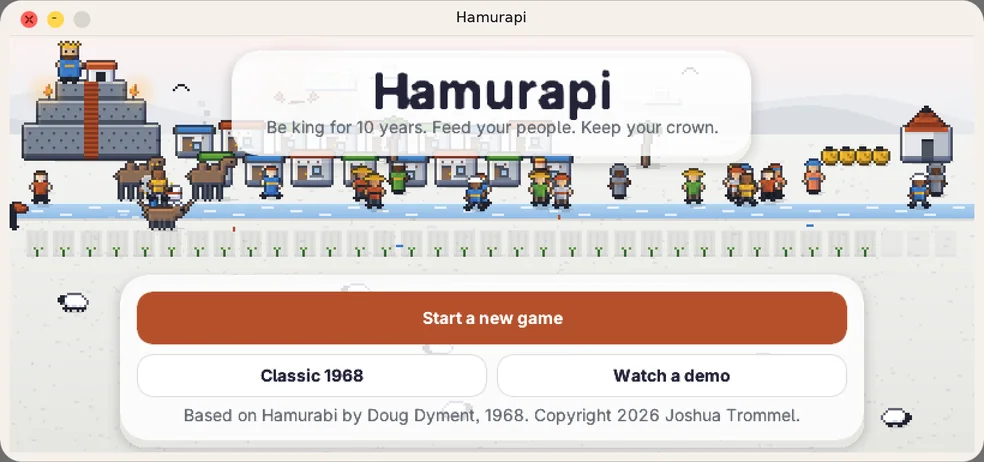
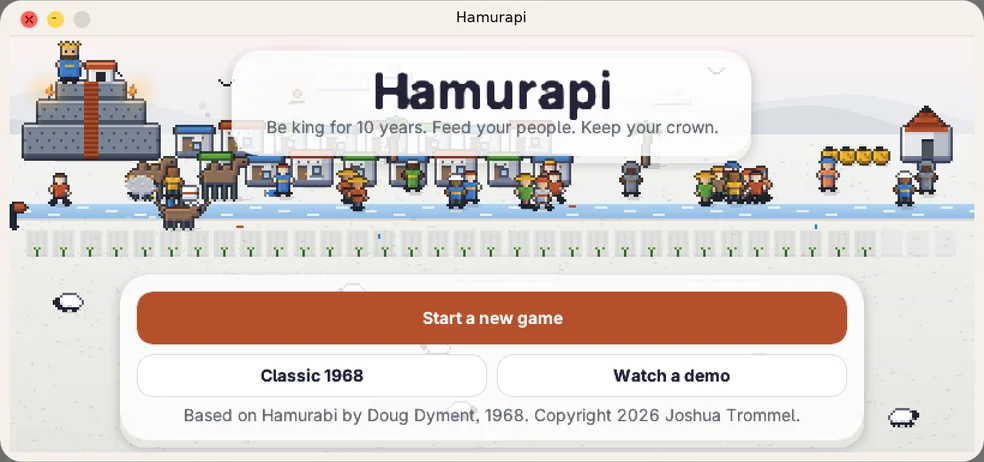
4.29.0: Cmd+N is a new note, on both kernels (#686)
One new key code, JT_KEY_NEW (316), from the chord tables on i386 and the Pi. Notes takes it from the list or the editor (the open note saved first). Checks: clipboard-check.py, arm64-clipboard-check.py. Landing shots retaken (jtsys.h is shared); three changed only in live data and animation frames.

Claude-Session: https://claude.ai/code/session_01HRdSytyrcTNJkvwQ7x5Mw8

diff --git a/landing/index.html b/landing/index.html
@@ -675,7 +675,7 @@ p,li,.sub{text-wrap:pretty}
 <section class="facts reveal" aria-label="Joshua Tree by the numbers">
   <div class="facts-row two">
     <div class="fact"><strong><span data-fact="apps">38</span></strong><span class="label">Apps</span></div>
-    <div class="fact"><strong>v<span data-fact="version">4.28.1</span></strong><span class="label">Version</span></div>
+    <div class="fact"><strong>v<span data-fact="version">4.29.0</span></strong><span class="label">Version</span></div>
   </div>
   <div class="boot-cta">
     <a class="boot-btn" href="https://github.com/nulljosh/joshuatree/releases/latest/download/joshuatree.iso">Download PC ISO</a>
@@ -965,7 +965,7 @@ p,li,.sub{text-wrap:pretty}
     </div>
   </nav>
   <div class="foot-bar">
-    <p class="foot-meta">Joshua Tree v<span data-fact="version">4.28.1</span> &middot; Apache License 2.0 &middot; &copy; 2026 Joshua Trommel &middot; Made with <span class="heart">&hearts;</span> in Vancouver, BC</p>
+    <p class="foot-meta">Joshua Tree v<span data-fact="version">4.29.0</span> &middot; Apache License 2.0 &middot; &copy; 2026 Joshua Trommel &middot; Made with <span class="heart">&hearts;</span> in Vancouver, BC</p>
   </div>
   <div class="foot-landscape" aria-hidden="true"><canvas></canvas></div>
 </footer>

diff --git a/tools/checks/arm64-clipboard-check.py b/tools/checks/arm64-clipboard-check.py
@@ -4,6 +4,7 @@
 The Cmd key is the keyboard's Super/Windows key (QMP qcode meta_l). One boot, every key through the virtio keyboard:
   1. Spotlight opens Notes, `n` starts a note, "pasteok" is typed, Cmd+A selects it (Notes says edsel=0,7), Cmd+C copies
      it (the kernel says CLIPCOPY:7: user/notes.c reached the one kernel buffer through JT_SYS_CLIPBOARD, 399).
+     Cmd+N then starts a second note (a second `notes: new=`), the first saved on the way.
   2. Spotlight opens the Terminal; Cmd+V puts the text on the input line (CLIPPASTE:7) and Enter runs it, which the
      shell can only answer with "zsh: command not found: pasteok", so the text itself crossed from Notes to the Terminal.
   3. Cmd+X on a typed line cuts it (CLIPCOPY:3) and Cmd+V puts it back (CLIPPASTE:3): the Terminal's own line works.
@@ -85,6 +86,11 @@ try:
     check("Cmd+A selects the text in Notes", wait_for("edsel=0,7", 5))
     key("meta_l", "c")
     check("Cmd+C reaches the kernel clipboard (CLIPCOPY:7)", wait_for("CLIPCOPY:7", 5))
+    news = uart().count("notes: new=")
+    key("meta_l", "n")
+    end = time.time() + 5
+    while time.time() < end and uart().count("notes: new=") <= news: time.sleep(.1)
+    check("Cmd+N in the editor starts a second note", uart().count("notes: new=") > news)
     mark = len(uart())
     spot("terminal")
     check("Terminal opened", wait_for("terminal open", 10, mark) or wait_for("focus terminal", 2, mark))

diff --git a/user/notes.c b/user/notes.c
@@ -602,6 +602,7 @@ void _start(int argc, char **argv) {
             ev.a = key;
             if (ev.a == JT_KEY_ESC && ed_has_sel()) { esel = -1; ed_draw(); }
             else if (ev.a == JT_KEY_ESC) { edit_close(); draw(); }
+            else if (ev.a == JT_KEY_NEW) { edit_close(); new_note(); if (editing) ed_draw(); else draw(); }   /* Cmd+N: this note saved, a fresh one open */
             else { ed_key(ev.a); if (edirty) edit_t = now_ticks(); ed_draw(); }
             flags = JT_POLL_PRESENT;
             continue;
@@ -618,7 +619,7 @@ void _start(int argc, char **argv) {
             if (k == JT_KEY_ESC && !armed) break;
             else if (k == JT_KEY_ESC) { say("notes: delete cancelled", -1); }
             else if (k == '\t') focus = !focus;
-            else if (k == 'n') { new_note(); if (editing) { ed_draw(); flags = JT_POLL_PRESENT; continue; } }
+            else if (k == 'n' || k == JT_KEY_NEW) { new_note(); if (editing) { ed_draw(); flags = JT_POLL_PRESENT; continue; } }
             else if (k == 'f') new_folder();
             else if (k == 'd') {
                 if (armed) delete_note();

diff --git a/arch/arm64/boot.c b/arch/arm64/boot.c
@@ -32,7 +32,7 @@ static void app_key(unsigned code) {   /* a key down for the app in front, as th
                                              {105, 261}, {106, 262}, {102, 305}, {107, 306}, {111, 307} };
     int k = 0;
     for (unsigned i = 0; i < sizeof map / sizeof map[0]; i++) if (map[i][0] == code) k = map[i][1];
-    if (!k && (ctrl_held || gui_held)) k = code == 46 ? 302 : code == 45 ? 303 : code == 47 ? 304 : code == 31 ? 308 : code == 30 ? 315 : 0;   /* Ctrl or Cmd with C X V S A */
+    if (!k && (ctrl_held || gui_held)) k = code == 46 ? 302 : code == 45 ? 303 : code == 47 ? 304 : code == 31 ? 308 : code == 30 ? 315 : code == 49 ? 316 : 0;   /* Ctrl or Cmd with C X V S A N */
     else if (!k) k = ask_char(code);
     if (k) app_push(1, k, 0);
 }

diff --git a/kernel/multiwin.c b/kernel/multiwin.c
@@ -390,6 +390,7 @@ int gui_multiwin_key_nonblock(void){
     if (sc & 0x80) return -1; /* key release */
     if (sc == 0x3C) return KEY_F2;
     if (kbd_ctrl && (sc & 0x7F) == 0x1F) return KEY_SAVE;
+    if (kbd_ctrl && (sc & 0x7F) == 0x31) return KEY_NEW;
     if (kbd_ctrl) { int k = sc & 0x7F; if (k == 0x2E) return KEY_COPY; if (k == 0x2D) return KEY_CUT; if (k == 0x2F) return KEY_PASTE; if (sel_ok && k == 0x1E) return KEY_SELALL; if (sel_ok && gui_windows[gui_window_count - 1].icon == GUI_APP_PANES && key_ctl_code(k)) return key_ctl_code(k); } /* clipboard and select-all keys reach ring-3 windows too */
     char c = kbd_map(sc);
     if (c == '\n') return KEY_ENTER;

diff --git a/tools/checks/clipboard-check.py b/tools/checks/clipboard-check.py
@@ -60,6 +60,15 @@ try:
     else:
         print('Notes    : typed a line, Ctrl+C copied it, Ctrl+V pasted it back (serial-verified)')
 
+    # 1b: Ctrl+N in the editor saves this note and opens a fresh one
+    n = vm.count('notes: new=')
+    vm.key('ctrl-n')
+    if not vm.wait('notes: new=', 10, n + 1):
+        fails.append('Notes Ctrl+N: no second note opened from the editor')
+    else:
+        print('Notes    : Ctrl+N in the editor started a fresh note')
+    time.sleep(1.0)
+
     # 2: cut in Notes, paste into Terminal
     vm.key('ret')
     vm.type('echo cross-app-clip', gap=0.1)

diff --git a/kernel/app.h b/kernel/app.h
@@ -32,6 +32,7 @@
 #define KEY_SUP        313
 #define KEY_SDOWN      314
 #define KEY_SELALL     315   /* Ctrl+A */
+#define KEY_NEW        316   /* Ctrl+N: a new document, in the app that has one */
 /* 2.11.0: the Terminal's multiplexer keys. A ring-3 window gets Ctrl+T/W/D/E/O, Ctrl+1..9, Ctrl+Left/Right
    and Ctrl+Tab as these codes instead of a bare letter, digit or tab (the app switcher still owns Ctrl+Tab
    while two windows are open). KEY_CTL_1 + n is Ctrl+(n+1). */

diff --git a/user/jtsys.h b/user/jtsys.h
@@ -131,6 +131,7 @@ struct jt_text { int x, y; unsigned int fg; const char *s; };
 #define JT_KEY_SRIGHT 312
 #define JT_KEY_SUP   313
 #define JT_KEY_SDOWN 314
+#define JT_KEY_NEW   316 /* Ctrl+N or Cmd+N: a new document (Notes: a new note) */
 #define JT_KEY_SELALL 315
 struct jt_window_info { unsigned int width, height, pitch; unsigned int *pixels; };
 struct jt_event { unsigned int kind; int a, b; };

diff --git a/kernel/ring3app.c b/kernel/ring3app.c
@@ -536,6 +536,7 @@ int gui_poll_event(int *a, int *b){
             if (code == 0x2F) { *a = KEY_PASTE; return 1; }
             if (code == 0x1F) { *a = KEY_SAVE; return 1; }
             if (code == 0x1E) { *a = KEY_SELALL; return 1; }
+            if (code == 0x31) { *a = KEY_NEW; return 1; }
         }
         char c = kbd_map(sc);
         if (c == '\n') { *a = KEY_ENTER; return 1; }

diff --git a/docs/ROADMAP.md b/docs/ROADMAP.md
@@ -193,7 +193,7 @@ Worth doing, not yet re-checked, in the order the study ranked them:
   - The Command key (the GUI or Windows key on a PC keyboard) with A select all, C copy, X cut, V paste, Z undo, S save, W close the window, Q quit, N new, F find, Tab to switch windows.
   - Plus Ctrl for the same on a keyboard with no GUI key.
   - One table in the shell. Apps handle the actions.
-  - Done on the Pi: C X V A S W Q, Space and Tab (`arm64-cmdtab-check.py`). Left: Z undo, N new and F find, which each app has to handle.
+  - Done on the Pi: C X V A S W Q N, Space and Tab (`arm64-cmdtab-check.py`); N is a new note in Notes on both kernels. Left: Z undo and F find, which each app has to handle.
   - Check: an arm64 key check that sends each chord through QMP and sees its serial line.
 - [ ] [Sonnet] The first few seconds after the Pi desktop appears take no keys. Find why and fix it. Since 4.28.1 `boottime` in the Terminal says `first key N ms after the desktop` and `slow step NAME N ms`; read those on the board, then fix the step it names. (The splash, its bar and the login screen shipped: `arm64-splash-check.py`, `arm64-splashbar-check.py`, `arm64-login-check.py`.)
 
@@ -982,6 +982,7 @@ The one-line ideas and gates are the roadmap's long-road table (the Roadmap sect
 
 One line per version. The full release notes live in the GitHub releases and `git log`; the longer write-ups of each step are in the last commit before the docs merge (`git show 35aa01cb:docs/roadmap-done.md`).
 
+- **4.29.0 (2026-10-26)**: Cmd+N (or Ctrl+N) is a new document, on both kernels: one new key code, `JT_KEY_NEW` (316), from the chord tables in `kernel/ring3app.c`, `kernel/multiwin.c` and `arch/arm64/boot.c`. Notes takes it as a new note, from the list or from the editor (the open note is saved first). Checks: `clipboard-check.py` (i386), `arm64-clipboard-check.py` (Pi).
 - **4.28.1 (2026-10-26)**: Stamps for the Pi's dead first seconds. The UART and the Terminal's new `boottime` say when the first key arrived after the desktop and names any main-loop step that held the keys up 100 ms or more in the first half minute (`TIMED` in `arch/arm64/boot.c`). QEMU takes keys at once, so the cause is on the board; the next board test reads it. Check: `arm64-firstkey-check.py`.
 - **4.28.0 (2026-10-26)**: Cmd+Tab on the Pi, from the keyboard-shortcuts item. Cmd+Tab or Ctrl+Tab brings the app window furthest back to the front (`app_cycle` in `arch/arm64/appwin.c`), so taps walk every open window; i386 already had its switcher. Check: `arm64-cmdtab-check.py`.
 - **4.27.0 (2026-10-26)**: Every typeface loads at boot (Joshua, 2026-10-07: "load the entire typeface on every boot"): i386 parses all 14 faces and draws one glyph from each before the desktop, keeps them (1,792 bytes of heap) and prints `fonts 14 of 14 ok`; a face that fails is named, stops being offered by name and draws as DejaVu Sans. The Pi prints the same line for its three. Check: `fonts-boot-check.py`.

diff --git a/docs/GUIDE.md b/docs/GUIDE.md
@@ -54,7 +54,7 @@ To resize, press within 12 pixels of a right, bottom or left edge (below the tit
 
 Content lays itself out again to fit: the Console and Terminal change columns and rows, the Browser re-wraps, the Calculator spreads its keys, Calendar, Notes, Music and Books redraw. Brick has a fixed field and keeps its first size as its smallest. On a 720p, 768p or 4K screen an app's window also stops growing at about 376,000 pixels of content (it needs that much memory). A 1080p Pi never gets there.
 
-**Copy and paste.** Cmd is the Windows or Super key on a PC keyboard, and Ctrl does the same. One clipboard serves the whole Pi: plain text, 4 KB. Cmd+A selects all in a note, Cmd+C copies, Cmd+X cuts, Cmd+V pastes. This works in Notes, on the Terminal's input line and in the Browser's address bar (there the whole line is what copy and cut take). A longer copy keeps the first 4 KB. A paste takes what fits, turns line breaks into spaces and never runs a command. Cmd+W closes the front window and Cmd+Q quits the front app (both do what the red dot does). Cmd+Tab (or Ctrl+Tab) brings the app window behind to the front; tap it again to walk through every open one.
+**Copy and paste.** Cmd is the Windows or Super key on a PC keyboard, and Ctrl does the same. One clipboard serves the whole Pi: plain text, 4 KB. Cmd+A selects all in a note, Cmd+C copies, Cmd+X cuts, Cmd+V pastes. This works in Notes, on the Terminal's input line and in the Browser's address bar (there the whole line is what copy and cut take). A longer copy keeps the first 4 KB. A paste takes what fits, turns line breaks into spaces and never runs a command. Cmd+W closes the front window and Cmd+Q quits the front app (both do what the red dot does). Cmd+N starts a new note in Notes, saving the open one first. Cmd+Tab (or Ctrl+Tab) brings the app window behind to the front; tap it again to walk through every open one.
 
 **Menu bar messages.** A Wi-Fi join and a Brick result show beside the clock for four seconds. A new message replaces the old one and never takes the keyboard or mouse from your app.
 
